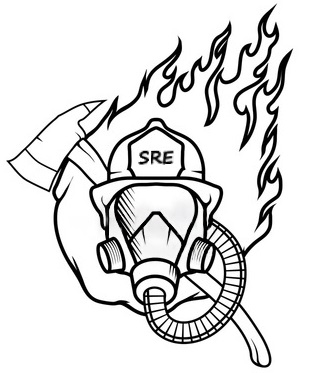
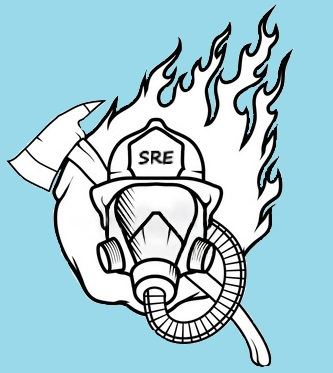
added website header

diff --git a/homework1/static/css/styles.css b/homework1/static/css/styles.css
@@ -1,7 +1,9 @@
 body{
  font-family: 'Montserrat', sans-serif;
 }
+
 * {box-sizing: border-box}
+
 body {
   margin: 0;
   padding: 0;
@@ -11,11 +13,12 @@ div .description {
         max-width: 400px;
         min-width: 100px;
 }
+
 .logo {
   float: left;
 }
-/* ~~ Top Navigation Bar ~~ */
 
+/* ~~ Top Navigation Bar ~~ */
 #navigation-container {
   width: 1200px;
   margin: 0 auto;
@@ -24,14 +27,15 @@ div .description {
 
 .navigation-bar {
   background-color: #99d9ea;
-  height: 110px;
+  height: 113px;
   width: 100%;
   text-align: left;
 }
 
 .navigation-bar img{
-float:left;
+    float:left;
 }
+
 .navigation-bar ul {
   padding: 20px;
   margin: 0px;
@@ -62,12 +66,7 @@ float:left;
 #menu {
   float: right;
 }
-nav a{
-        color: #d64161;
-        font-size: 2em;
-        margin-left: 50px;
-        text-decoration: none;
-}
+
 
 .tab {
         float: left;

diff --git a/homework1/templates/base.html b/homework1/templates/base.html
@@ -13,7 +13,7 @@
                 <div id="navigation-container">
                 <img src="{{ url_for('static', filename="images/sre.jpg") }}" width="100"> 
       <ul>
-              <li> <a href="index.html">Profile</a></li>
+              <li> <a href="/profile">Profile</a></li>
               <li><a href="https://botiyava.ru">Contacts</a></li>
       </ul>
                 </div>
